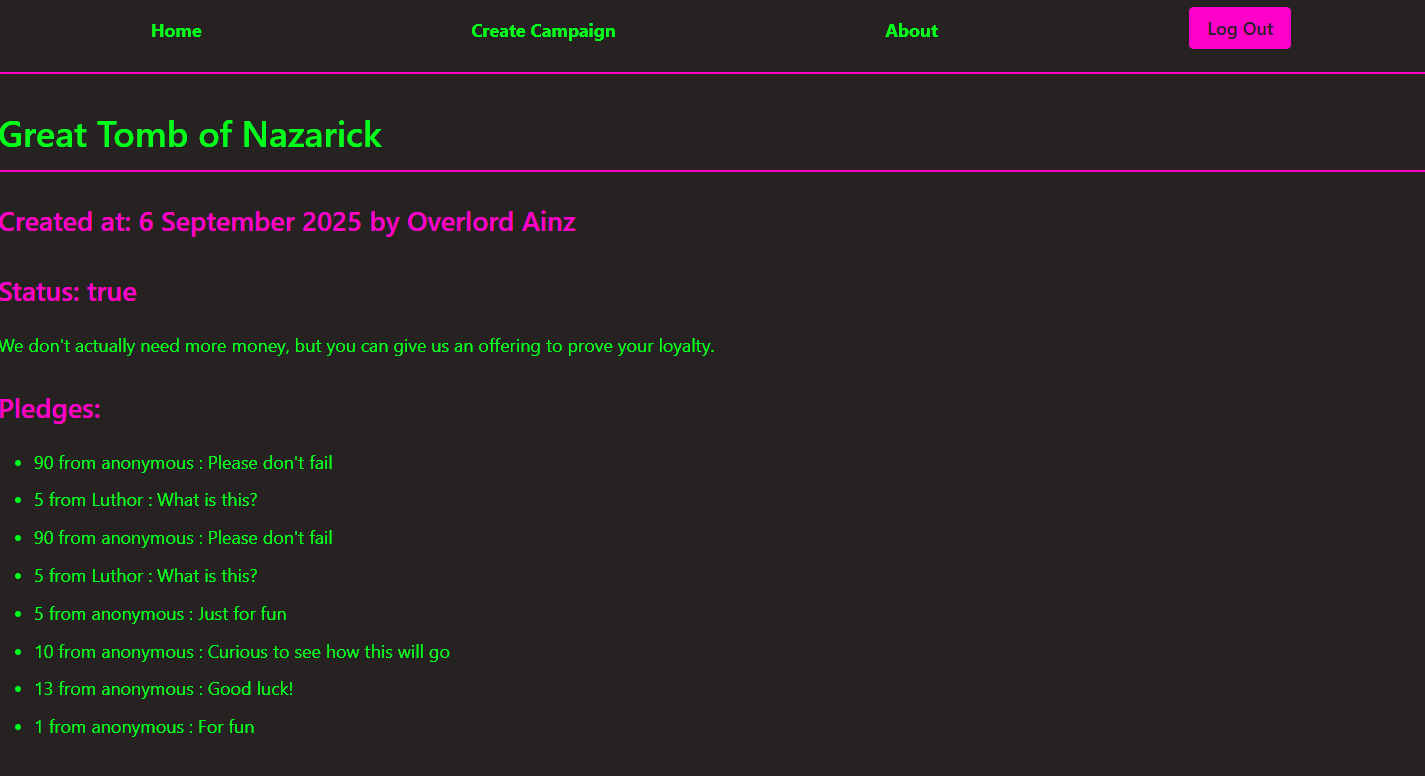
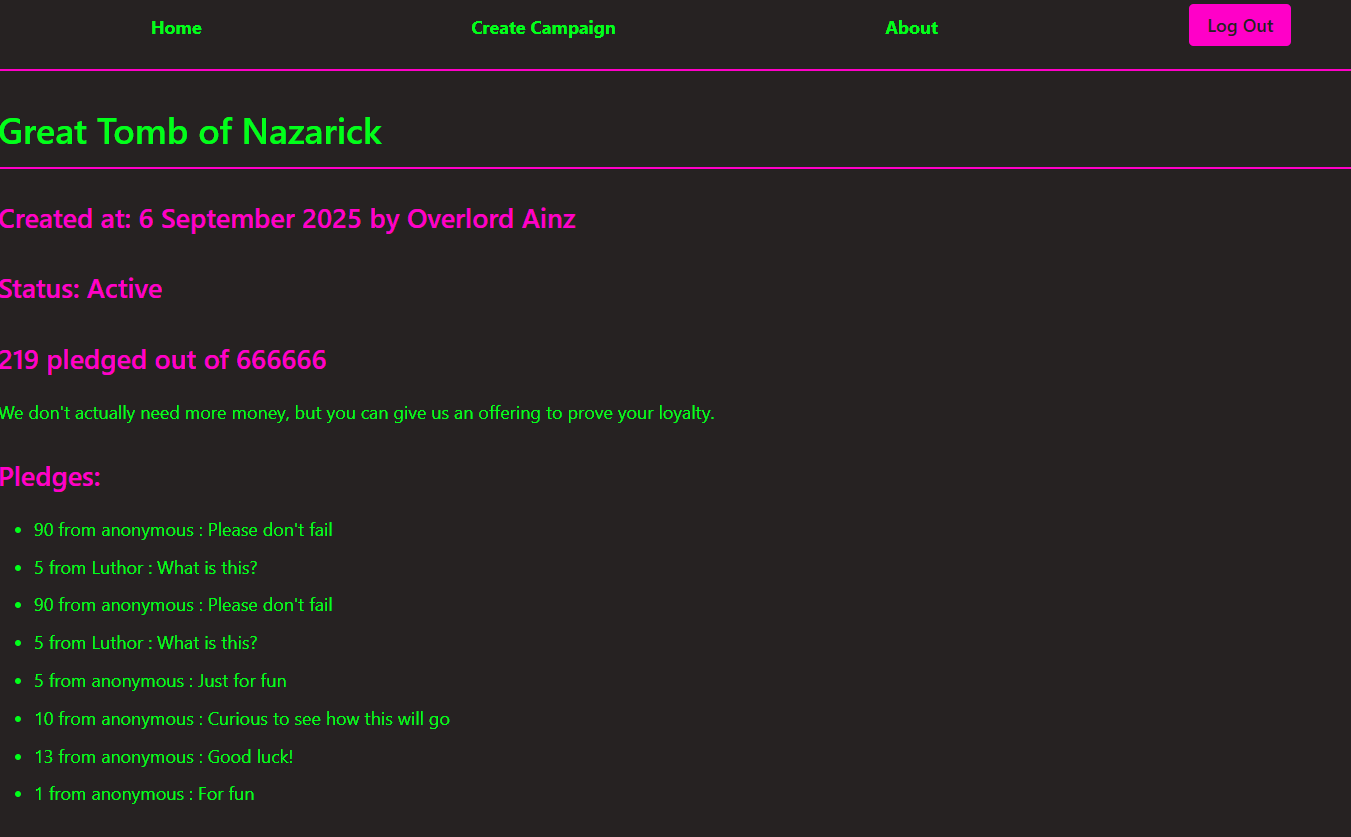
feat: Added 1 more screenshot to README.md and updated 2 pre-existing screenshots

diff --git a/README.md b/README.md
@@ -67,6 +67,7 @@ This is the homepage shown when user is logged in.
 * last name
 * professional title
 * public-friendly alias
+
 All fields are mandatory.
 ![New User Sign Up form]( ./img/readme/01_SignUp.png )
 
@@ -79,6 +80,7 @@ To create a new campaign, you must be logged in.
 * public title (eg., the title that will be displayed to users who are not logged in)
 * public description (eg., the description that will be displayed to users who are not logged in)
 * public image (URL) (eg., the image that will be displayed to users who are not logged in)
+
 All fields are mandatory.
 ![New Campaign form]( ./img/readme/02_CreateCampaign.png )
 
@@ -99,11 +101,14 @@ The fields that are affected:
 * Campaign description
 * Displayed name of donor
 
-Campaign page for Campaign 1 when user is not logged in.
+Campaign page for Campaign #1 when user is not logged in.
 ![Campaign Page for Campaign 1 when user is not logged in.]( ./img/readme/04_CampaignPage_Logged_Out.png )
 
-Campaign page for Campaign 1 when user is logged in.
+Campaign page for Campaign #1 when user is logged in.
 ![Campaign Page for Campaign 1 when user is logged in.]( ./img/readme/04_CampaignPage_Logged_In.png )
+
+Campaign page for Campaign #3 when user is logged in but there is no pledge and Casmpaign is inactive.
+![Campaign Page for Campaign 3 when user is logged in but there is no pledge and Casmpaign is inactive.]( ./img/readme/04_CampaignPage_Logged_In_NoPledge.png )
 
 ### Additional Notes
 Ideas, extra concepts, etc. that were considered during the development phase.
